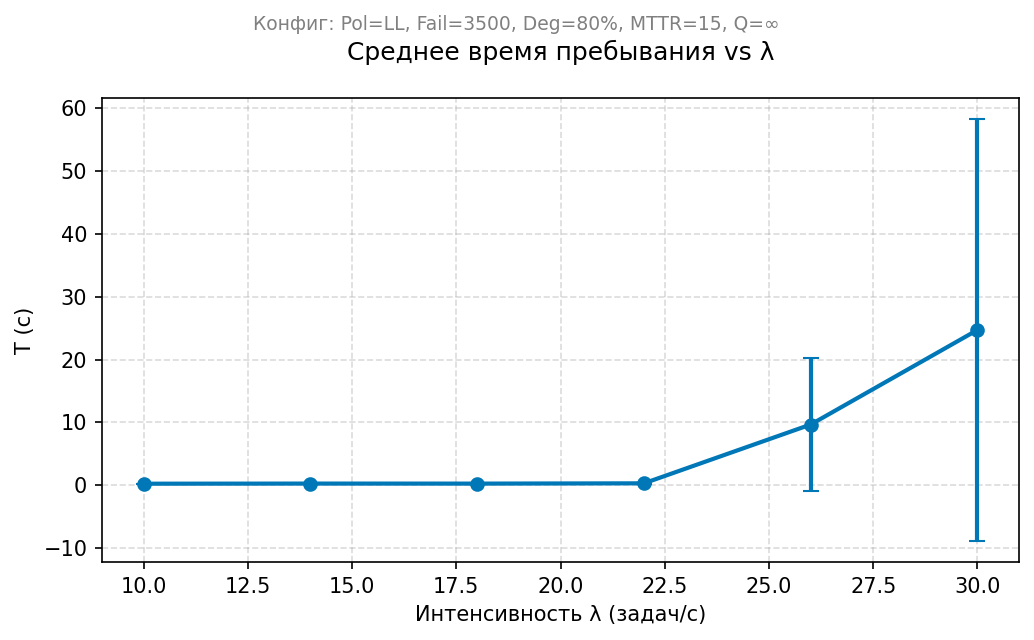
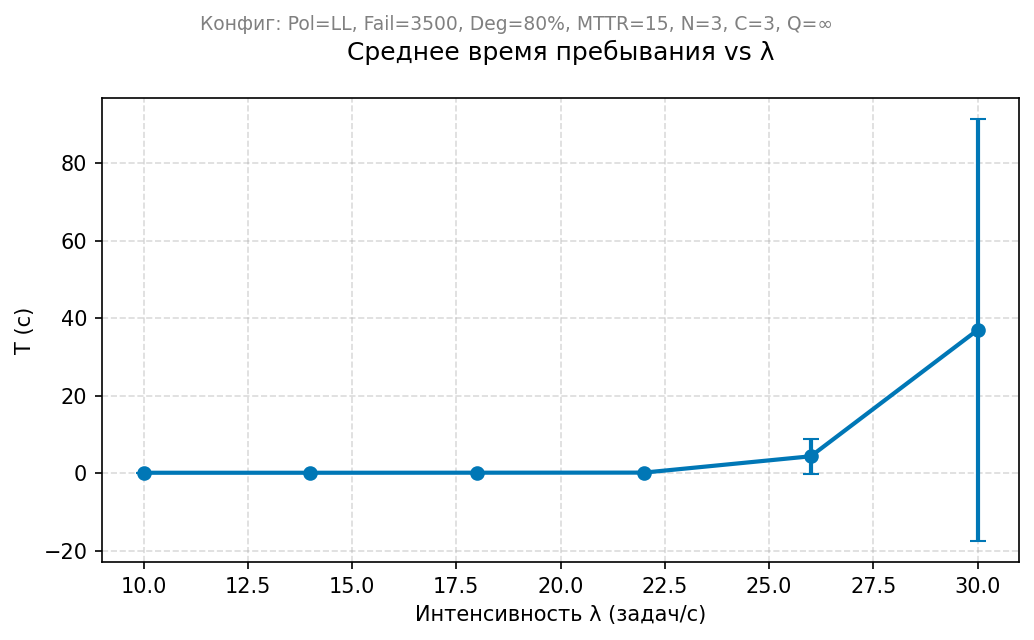
simulator_v3.py

diff --git a/run_experiments_fast.py b/run_experiments_fast.py
@@ -1,0 +1,98 @@
+"""
+Быстрый прогон экспериментов с N=3, C=3 — для перегенерации графиков диссертации.
+Использует n_reps=5 (вместо 10) для скорости. Результаты статистически приемлемы.
+"""
+import sys, os, time
+sys.path.insert(0, os.path.dirname(os.path.abspath(__file__)))
+
+from simulator_v3 import (
+    SimConfig, run_replications, OUT_DIR, generate_plots, format_row
+)
+import pandas as pd
+
+NREPS = 3  # компромисс: качество vs скорость
+SIM_TIME = 3000.0
+
+
+def run_series_mttf():
+    print("[1/4] MTTF_fail × 3 кривые деградации...")
+    rows = []
+    for mttf in [2500, 3000, 3500, 4000, 4500]:
+        for pct in [0.7, 0.8, 0.9]:
+            t0 = time.time()
+            cfg = SimConfig(node_mttf_fail=float(mttf), degrade_percent=pct,
+                            sim_time=SIM_TIME)
+            res = run_replications(cfg, n_reps=NREPS)
+            res["mttf_fail"]       = mttf
+            res["degrade_percent"] = pct
+            rows.append(res)
+            print(f"  mttf={mttf}, deg={pct}: {time.time()-t0:.1f}с — "
+                  f"X={res['throughput']:.2f}, W95={res['wait_p95']:.3f}, D={res['tasks_dropped']:.0f}")
+    return rows
+
+
+def run_series_mttr():
+    print("[2/4] MTTR...")
+    rows = []
+    for mttr in [5, 10, 15, 20, 25]:
+        cfg = SimConfig(node_mttr=float(mttr), node_mttf_fail=3500.0,
+                        degrade_percent=0.8, sim_time=SIM_TIME)
+        res = run_replications(cfg, n_reps=NREPS)
+        res["mttr"] = mttr
+        rows.append(res)
+        print(f"  mttr={mttr}: D={res['tasks_dropped']:.0f}, W95={res['wait_p95']:.3f}")
+    return rows
+
+
+def run_series_pol():
+    print("[3/4] Политики...")
+    rows = []
+    for pol in ["round_robin", "least_loaded", "random"]:
+        cfg = SimConfig(balance_policy=pol, node_mttf_fail=3500.0,
+                        degrade_percent=0.8, node_mttr=15.0, sim_time=SIM_TIME)
+        res = run_replications(cfg, n_reps=NREPS)
+        res["policy"] = pol
+        rows.append(res)
+        print(f"  {pol}: W95={res['wait_p95']:.3f}, D={res['tasks_dropped']:.0f}")
+    return rows
+
+
+def run_series_lam():
+    print("[4/4] Лямбда...")
+    rows = []
+    for lam in [10.0, 14.0, 18.0, 22.0, 26.0, 30.0]:
+        cfg = SimConfig(arrival_rate=lam, node_mttf_fail=3500.0,
+                        degrade_percent=0.8, balance_policy="least_loaded",
+                        sim_time=SIM_TIME)
+        res = run_replications(cfg, n_reps=NREPS)
+        res["lambda"] = lam
+        rows.append(res)
+        print(f"  λ={lam}: W={res['mean_wait']:.3f}, W95={res['wait_p95']:.3f}, X={res['throughput']:.2f}")
+    return rows
+
+
+if __name__ == "__main__":
+    series = sys.argv[1] if len(sys.argv) > 1 else "all"
+    data = {}
+    t0 = time.time()
+    if series in ("mttf", "all"):
+        data["fail"] = run_series_mttf()
+    if series in ("mttr", "all"):
+        data["mttr"] = run_series_mttr()
+    if series in ("pol", "all"):
+        data["bal"] = run_series_pol()
+    if series in ("lam", "all"):
+        data["lam"] = run_series_lam()
+
+    print(f"\nВсего: {time.time()-t0:.1f}с")
+    if series == "all":
+        # Сохранить в CSV каждую серию
+        for k in data:
+            df = pd.DataFrame(data[k])
+            df.to_csv(OUT_DIR / f"series_{k}.csv", index=False, encoding="utf-8-sig")
+        # генерируем графики
+        generate_plots(data)
+    else:
+        df = pd.DataFrame(data[list(data.keys())[0]])
+        df.to_csv(OUT_DIR / f"series_{series}.csv", index=False, encoding="utf-8-sig")
+        print(df.to_string(index=False))

diff --git a/simulator_v3.py b/simulator_v3.py
@@ -76,15 +76,15 @@ def container_service_rate(base_rate: float, n_total: int, m_active: int) -> flo
 @dataclass
 class SimConfig:
     # Топология кластера
-    num_nodes:           int   = 4       # число рабочих узлов N
-    containers_per_node: int   = 9       # контейнеров на узел C
+    num_nodes:           int   = 3       # число рабочих узлов N (Фунг и др., 2025)
+    containers_per_node: int   = 3       # контейнеров на узел C (Фунг и др., 2025)
 
     # Очередь (бесконечная — для наблюдения взрывного роста задержек)
     queue_capacity:      int   = 999_999
 
     # Входной поток
     arrival_rate:        float = 16.0   # λ, задач/с
-    base_service_rate:   float = 21.957 # μ₀ = μ(9,1), с⁻¹
+    base_service_rate:   float = 22.242 # μ₀ = μ(3,1), с⁻¹  (для N=3, C=3)
 
     # Время прогона
     sim_time:            float = 5000.0  # секунд
@@ -99,7 +99,7 @@ class SimConfig:
     node_degrade_factor: float = 2.0    # во сколько раз снижается μ при degrade
 
     # Параметры отказов контейнера
-    container_mttf:      float = 1000.0
+    container_mttf:      float = 500.0
     container_mttr:      float = 2.0
 
     # Параметры балансировщика (SPOF)
@@ -686,10 +686,10 @@ def generate_plots(data: dict):
     matplotlib.use("Agg")
     print("\nГенерация 24 графиков...")
 
-    cfg_fail = "λ=16, Pol=LL, MTTR=15, N=4, C=9, Q=∞"
-    cfg_mttr = "λ=16, Pol=LL, Fail=3500, Deg=80%, Q=∞"
-    cfg_bal  = "λ=16, Fail=3500, Deg=80%, MTTR=15, Q=∞"
-    cfg_lam  = "Pol=LL, Fail=3500, Deg=80%, MTTR=15, Q=∞"
+    cfg_fail = "λ=16, Pol=LL, MTTR=15, N=3, C=3, Q=∞"
+    cfg_mttr = "λ=16, Pol=LL, Fail=3500, Deg=80%, N=3, C=3, Q=∞"
+    cfg_bal  = "λ=16, Fail=3500, Deg=80%, MTTR=15, N=3, C=3, Q=∞"
+    cfg_lam  = "Pol=LL, Fail=3500, Deg=80%, MTTR=15, N=3, C=3, Q=∞"
 
     df_f = pd.DataFrame(data["fail"])
     df_m = pd.DataFrame(data["mttr"])

diff --git a/run_one.py b/run_one.py
@@ -1,0 +1,56 @@
+"""Запуск одной точки эксперимента, сохранение в инкрементальный CSV.
+Использование:
+    python run_one.py <series> <param>=<value> [<param>=<value> ...]
+Пример:
+    python run_one.py mttf node_mttf_fail=2500 degrade_percent=0.7
+    python run_one.py pol balance_policy=least_loaded
+"""
+import sys, os, time, json
+sys.path.insert(0, os.path.dirname(os.path.abspath(__file__)))
+from pathlib import Path
+import pandas as pd
+
+from simulator_v3 import SimConfig, run_replications, OUT_DIR
+
+NREPS = 10
+SIM_TIME = 5000.0
+
+
+def parse_kwargs(args):
+    kw = {}
+    for a in args:
+        k, v = a.split("=", 1)
+        if v.replace(".", "").replace("-", "").isdigit():
+            kw[k] = float(v) if "." in v else int(v)
+        elif v in ("True", "False"):
+            kw[k] = v == "True"
+        else:
+            kw[k] = v
+    return kw
+
+
+if __name__ == "__main__":
+    series = sys.argv[1]
+    kwargs = parse_kwargs(sys.argv[2:])
+    cfg = SimConfig(sim_time=SIM_TIME, **kwargs)
+    t0 = time.time()
+    res = run_replications(cfg, n_reps=NREPS)
+    res.update(kwargs)
+    res["elapsed"] = time.time() - t0
+    res["series"]  = series
+
+    # инкрементальный csv
+    csv_path = OUT_DIR / f"series_{series}_v3.csv"
+    df_new = pd.DataFrame([res])
+    if csv_path.exists():
+        df_old = pd.read_csv(csv_path)
+        df = pd.concat([df_old, df_new], ignore_index=True)
+    else:
+        df = df_new
+    df.to_csv(csv_path, index=False, encoding="utf-8-sig")
+
+    # сводка
+    print(json.dumps({k: v for k, v in res.items()
+                      if not k.endswith("_std") and isinstance(v, (int, float, str))},
+                     ensure_ascii=False, indent=2))
+    print(f"elapsed={res['elapsed']:.1f}s  saved={csv_path}")
